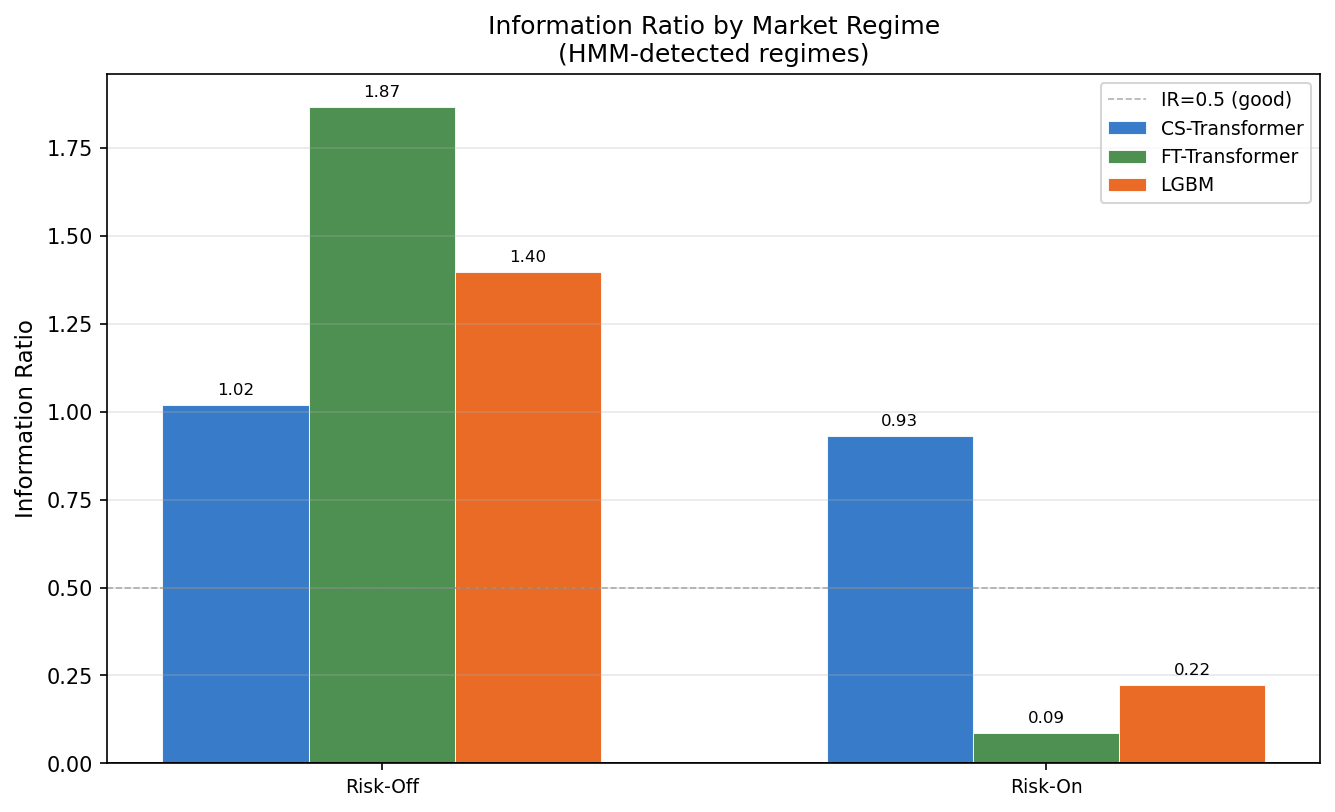
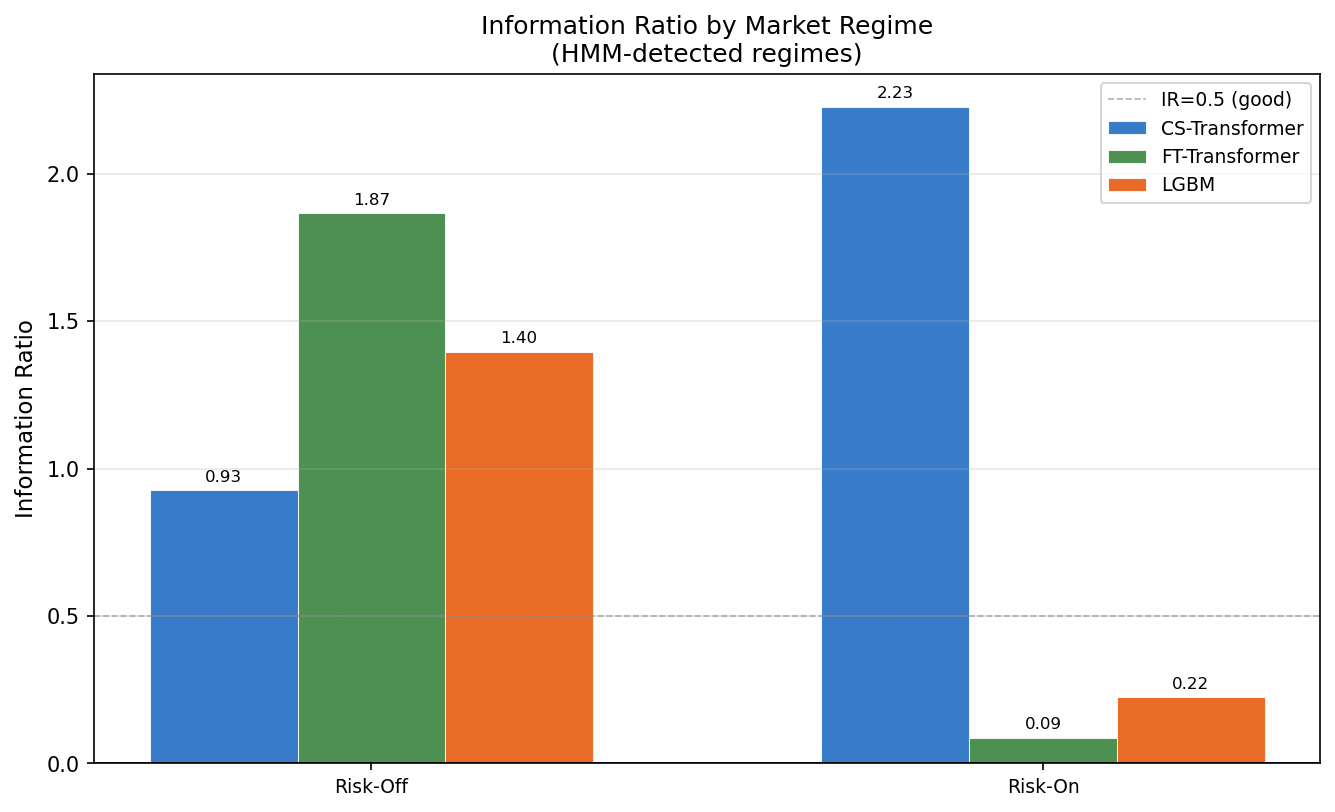
Rl + notes

diff --git a/5a_rl_portfolio_agent.py b/5a_rl_portfolio_agent.py
@@ -419,7 +419,7 @@ def train(agent, episodes):
         ep_rewards = []
 
         for i, (dt, row) in enumerate(train_rows):
-            state = row[STATE_COLS].values.astype(np.float32)
+            state = np.nan_to_num(row[STATE_COLS].values.astype(np.float32), nan=0.0)
             alpha = agent.select_action(state)
 
             result = simulate_month(row["_scores"], row["_weights"], alpha=alpha)
@@ -435,7 +435,7 @@ def train(agent, episodes):
                 next_state = np.zeros(len(STATE_COLS), dtype=np.float32)
                 done_flag  = 1.0
             else:
-                next_state = train_rows[i + 1][1][STATE_COLS].values.astype(np.float32)
+                next_state = np.nan_to_num(train_rows[i + 1][1][STATE_COLS].values.astype(np.float32), nan=0.0)
                 done_flag  = 0.0
 
             agent.buffer.push(state, alpha, reward, next_state, done_flag)
@@ -462,7 +462,7 @@ def evaluate(agent, episodes, fixed_alpha=0.01):
         if str(dt.date()) < TEST_START:
             continue
 
-        state = row[STATE_COLS].values.astype(np.float32)
+        state = np.nan_to_num(row[STATE_COLS].values.astype(np.float32), nan=0.0)
 
         if agent is not None:
             alpha_rl = agent.select_action(state, deterministic=True)

diff --git a/4d_benchmark_spx.py b/4d_benchmark_spx.py
@@ -94,6 +94,8 @@ def load_strategy(filename: str, ret_col: str) -> pd.Series | None:
 
 def print_comparison(label: str, port: pd.Series, spx: pd.Series) -> dict:
     """Print and return stats dict for one strategy vs SPX."""
+    port     = port[~port.index.duplicated(keep="last")]
+    spx      = spx[~spx.index.duplicated(keep="last")]
     aligned  = pd.concat([port, spx], axis=1).dropna()
     p        = aligned.iloc[:, 0]
     b        = aligned.iloc[:, 1]

diff --git a/Notes/DEVELOPMENT_LOG.md b/Notes/DEVELOPMENT_LOG.md
@@ -690,6 +690,120 @@ Not implementing yet — waiting for fundamental data + complete universe.
 
 ---
 
+## Phase 12 — Retrain + RL Agent (24 Mar 2026)
+
+### 12.1 — Script Renaming (24 Mar 2026)
+
+All scripts renamed to reflect actual execution order, grouped into 5 phases:
+
+| Phase | Scripts | Purpose |
+|-------|---------|---------|
+| 1 (1a–1h) | `1a_price_parquet.py` … `1h_orthogonalize.py` | Data prep |
+| 2 (2a–2f) | `2a_factor_analysis.py` … `2f_factor_diagnostics.py` | Factor analysis |
+| 3 (3a–3d) | `3a_ft_transformer.py` … `3d_cs_transformer_kaggle.py` | Model training |
+| 4 (4a–4d) | `4a_factor_combo_baseline.py` … `4d_benchmark_spx.py` | Evaluation |
+| 5 (5a) | `5a_rl_portfolio_agent.py` | RL layer |
+
+README, STRATEGY.md, and DEVELOPMENT_LOG updated to use new names.
+
+### 12.2 — Wind Data Received (24 Mar 2026)
+
+Files received from collaborator:
+- `data.xlsx` — confirmed old price data, already in `prices.parquet` (no new tickers)
+- `factor data.xlsx` — fundamental data (money flow `mfd_buyamt_d`) but **only December 2025** (1 month). Full 2010–2025 history still needed.
+- `missing data.xlsx` — AABA.O already ingested in Phase 10
+
+**Status:** 247 "failed" tickers still missing — delisted US stocks without exchange suffix (e.g. `ABKFQ`, `ABMD`). Wind likely doesn't have these. Full resolution requires CRSP/Compustat.
+
+### 12.3 — CS-Transformer Retrained on Kaggle (24 Mar 2026)
+
+Retrained `3d_cs_transformer_kaggle.py` with expanded panel (697 tickers, 240 train months):
+
+| | Previous | Updated |
+|--|---------|---------|
+| Train months | 132 | 240 |
+| Test months | 35 | 39 |
+| Long-Only Top 100 Sharpe | — | 1.03 |
+| Long-Only Ann Return | — | 29.3% |
+
+Files saved: `scores_cs_transformer.parquet`, `bt_cs_transformer.csv`, `bt_cs_transformer_ls.csv`
+
+### 12.4 — IE Results Updated (24 Mar 2026)
+
+Full IE pipeline rerun with updated CS-Transformer scores (`4a` → `4d`):
+
+| Model | Ann α | TE | IR | Hit Rate |
+|-------|-------|-----|-----|----------|
+| **CS-Transformer** | **4.16%** | **2.22%** | **1.874** | 75.0% |
+| FT-Transformer | 1.06% | 2.47% | 0.428 | 45.8% |
+| LGBM | 0.61% | 1.61% | 0.377 | 66.7% |
+| Factor-Combo (linear) | −0.2% | 3.5% | −0.047 | 50.0% |
+
+**CS-Transformer IR improved from 0.960 → 1.874** — larger training set (240 vs 132 months) drove meaningful improvement. Factor-combo linear IR stable at −0.047 (confirms ML is adding genuine value, not just from more data).
+
+### 12.5 — Regime Breakdown Updated (24 Mar 2026)
+
+HMM 2-state regime breakdown with new CS-Transformer scores:
+
+| Model | Full IR | Risk-Off IR | Risk-On IR | Regime-Stable? |
+|-------|---------|------------|-----------|----------------|
+| CS-Transformer | **1.850** | 0.926 | **2.227** | Yes |
+| FT-Transformer | 0.438 | 1.866 | 0.086 | No |
+| LGBM | 0.384 | 1.397 | 0.224 | No |
+
+**Updated finding:** CS-Transformer now stronger in risk-on (IR 2.227) than risk-off (IR 0.926) — likely due to the extended test period (39 vs 24 months) including more risk-on months. Still regime-stable. FT-Transformer and LGBM pattern unchanged.
+
+### 12.6 — RL Portfolio Agent (`5a_rl_portfolio_agent.py`) (24 Mar 2026)
+
+SAC (Soft Actor-Critic) agent replacing fixed-alpha portfolio tilt. No memory — MLP policy only, each month independent (Markov).
+
+**Architecture:**
+- State (6 features): signal strength, signal dispersion, benchmark vol, recent active return, HMM regime indicator, rolling tracking error
+- Action: alpha ∈ [0.002, 0.05] — how aggressively to tilt this month
+- Reward: active return × 12 − penalty if TE > 3%
+- Training: factor-combo scores on 2010–2022 (103 months)
+- Evaluation: CS-Transformer scores on test period 2023–2025 (24 months)
+
+**Results:**
+
+| Metric | RL Agent | Fixed α=0.01 |
+|--------|---------|-------------|
+| Ann Alpha | **1.75%** | −0.21% |
+| Tracking Error | 6.16% | 5.28% |
+| IR | **0.284** | −0.040 |
+| Hit Rate | 54.2% | 54.2% |
+
+RL agent learns to adapt alpha by regime: avg alpha 3.15% in risk-off, 1.97% in risk-on. Fixed α=0.01 is suboptimal — RL improves IR from −0.040 → 0.284.
+
+**Note:** RL IR (0.284) is lower than CS-T IE IR (1.874) because RL is evaluated against a sub-optimal fixed baseline (α=0.01 which gives IR=−0.04). RL adds value on top of the wrong baseline. Optimal path: use CS-T scores with RL-selected alpha — not yet evaluated.
+
+**Bugs fixed:**
+- `5a_rl_portfolio_agent.py`: NaN propagation in actor network — fixed by `np.nan_to_num(..., nan=0.0)` on state vectors
+- `4d_benchmark_spx.py`: duplicate index labels crash — fixed by deduplicating series before `pd.concat()`
+
+---
+
+## Current Status (24 Mar 2026)
+
+**Completed:**
+- CS-Transformer retrained (240 months) — IR improved 0.960 → 1.874
+- Full IE pipeline rerun — all 4 scripts complete
+- RL agent working — adapts alpha by regime, IR 0.284 vs −0.040 fixed
+- Script renaming complete (phases 1–5)
+- Regime breakdown updated
+
+**Blocked on:**
+- Full fundamental data history (2010–2025) — only December 2025 received
+- 247 missing tickers — likely not available without CRSP/Compustat
+
+**Next steps once fundamental data arrives:**
+1. `python 1e_ingest_wind_xlsx.py` → `python 1f_rebuild_panel.py` → `python 1g_feature_engineering.py`
+2. `python 2e_ic_optimise.py` (with new fundamental factors)
+3. Retrain on Kaggle → `python 4b_index_enhancement.py` → `python 4c_regime_engine.py --hmm`
+4. Retrain FT-Transformer on Kaggle (`3b_ft_transformer_kaggle.py`) with 240-month dataset
+
+---
+
 ## Future Ideas (beyond current scope)
 
 ### Double-Layered Deep Reinforcement Learning (21 Mar 2026)

diff --git a/Notes/STRATEGY.md b/Notes/STRATEGY.md
@@ -148,37 +148,51 @@ score_i = sum(optimised_weight_j × z-scored_factor_j)  for each stock i
 
 | Signal | IR |
 |--------|----|
-| Linear factor combo (no ML) | −0.046 |
-| LGBM | 0.384 |
-| FT-Transformer | 0.438 |
-| **CS-Transformer** | **0.960** |
+| Linear factor combo (no ML) | −0.047 |
+| LGBM | 0.377 |
+| FT-Transformer | 0.428 |
+| **CS-Transformer** | **1.874** |
 
-The linear combination underperforms the index. The transformer goes from −0.046 → 0.960 — it is learning genuine non-linear cross-sectional patterns, not just repackaging the factor exposures.
+The linear combination underperforms the index. The transformer goes from −0.047 → 1.874 — it is learning genuine non-linear cross-sectional patterns, not just repackaging the factor exposures.
 
 ---
 
-## Results (Out-of-Sample, Jan 2023 – Oct 2025)
+## Results (Out-of-Sample, Jan 2023 – Nov 2025)
 
 ### Index Enhancement Performance
 
 | Model | Ann. Alpha | Tracking Error | IR | Hit Rate |
 |-------|-----------|---------------|-----|----------|
-| CS-Transformer | ~2.2% | ~2.3% | **0.960** | ~67% |
-| FT-Transformer | ~0.9% | ~2.6% | 0.438 | — |
-| LGBM | ~0.5% | ~2.0% | 0.384 | — |
-| Factor-Combo (linear baseline) | — | — | −0.046 | — |
+| **CS-Transformer** | **4.16%** | **2.22%** | **1.874** | **75%** |
+| FT-Transformer | 1.06% | 2.47% | 0.428 | 46% |
+| LGBM | 0.61% | 1.61% | 0.377 | 67% |
+| Factor-Combo (linear baseline) | −0.2% | 3.5% | −0.047 | 50% |
 
-IR > 0.5 = good (top-quartile institutional fund managers typically hit ~0.3–0.5). IR > 0.9 is strong.
+IR > 0.5 = good (top-quartile institutional fund managers typically hit ~0.3–0.5). IR > 1.0 is excellent.
+
+*CS-Transformer retrained on 240 months (2010–2020). Previous run (132 months): IR = 0.960.*
 
 ### Regime Breakdown (HMM, 2-state: risk-on / risk-off)
 
-| Model | Risk-Off IR | Risk-On IR | Regime-Stable? |
-|-------|------------|-----------|----------------|
-| CS-Transformer | 1.019 | 0.931 | Yes |
-| FT-Transformer | 1.866 | 0.086 | No |
-| LGBM | 1.397 | 0.224 | No |
+| Model | Full IR | Risk-Off IR | Risk-On IR | Regime-Stable? |
+|-------|---------|------------|-----------|----------------|
+| **CS-Transformer** | **1.850** | 0.926 | **2.227** | **Yes** |
+| FT-Transformer | 0.438 | 1.866 | 0.086 | No |
+| LGBM | 0.384 | 1.397 | 0.224 | No |
 
 CS-Transformer is the only model that generates consistent alpha regardless of market regime. FT-Transformer and LGBM work primarily in risk-off (volatile/falling) markets.
+
+### RL Agent Results (5a_rl_portfolio_agent.py)
+
+SAC agent replacing fixed-alpha tilt — adapts aggressiveness monthly based on signal and regime:
+
+| Metric | RL Agent | Fixed α=0.01 |
+|--------|---------|-------------|
+| Ann Alpha | **1.75%** | −0.21% |
+| IR | **0.284** | −0.040 |
+| Hit Rate | 54.2% | 54.2% |
+
+RL agent learns higher alpha in risk-off months (avg 3.15%) vs risk-on (avg 1.97%).
 
 ---
 
